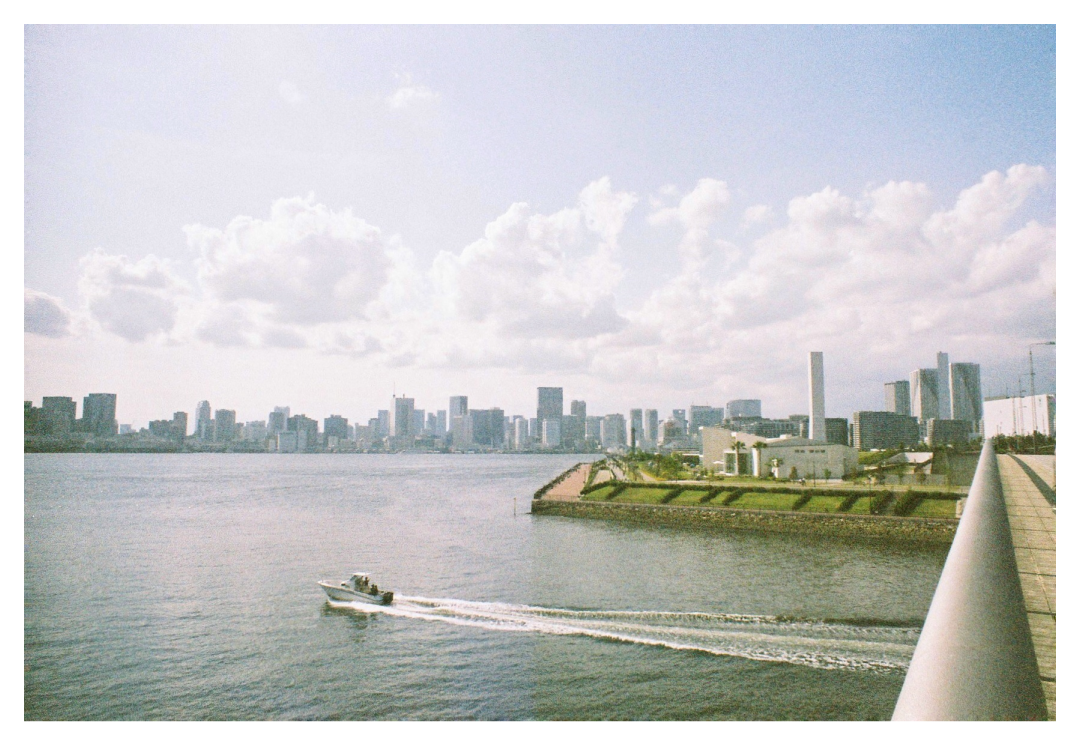
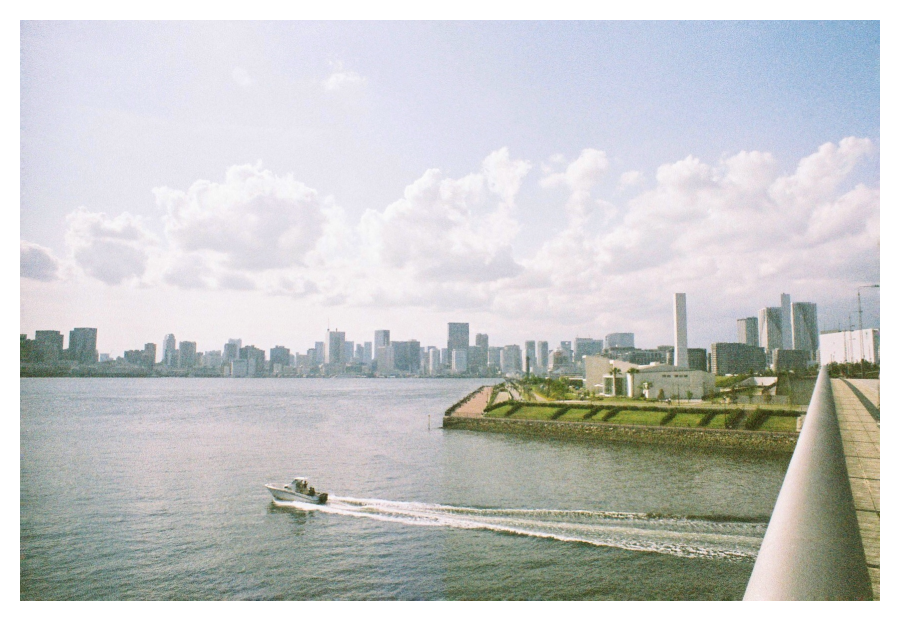
optimaze images

diff --git a/index.html b/index.html
@@ -29,12 +29,12 @@
 
       <!-- photo1 -->
       <a class="photo photo--1 js-modal-open" data-target="modal1">
-        <img class="lazy" data-original="images/1.png" alt="">
+        <img class="" src="images/1.png" alt="">
       </a>
       <div id="modal1" class="modal js-modal">
         <a class="modal__bg js-modal-close"></a>
         <div class="modal__content">
-          <img class="lazy" data-original="images/modal/1.png" alt="">
+          <img src="images/modal/1.png" alt="">
           <h1>sometimes time flows slowly</h1>
           <a class="js-modal-close" href="">back</a>
         </div>
@@ -44,12 +44,12 @@
 
       <!-- photo2 -->
       <a class="photo photo--2 js-modal-open" data-target="modal2">
-        <img class="lazy" data-original="images/2.png" alt="">
+        <img class="" src="images/2.png" alt="">
       </a>
       <div id="modal2" class="modal js-modal">
         <a class="modal__bg js-modal-close"></a>
         <div class="modal__content">
-          <img class="lazy" data-original="images/modal/2.png" alt="">
+          <img src="images/modal/2.png" alt="">
           <h1>unconsciously we share experiences</h1>
           <a class="js-modal-close" href="">back</a>
         </div>
@@ -59,12 +59,12 @@
 
       <!-- photo3 -->
       <a class="photo photo--3 js-modal-open" data-target="modal3">
-        <img class="lazy" data-original="images/3.png" alt="">
+        <img class="" src="images/3.png" alt="">
       </a>
       <div id="modal3" class="modal js-modal">
         <a class="modal__bg js-modal-close"></a>
         <div class="modal__content">
-          <img class="lazy" data-original="images/modal/3.png" alt="">
+          <img src="images/modal/3.png" alt="">
           <h1>god is chill</h1>
           <a class="js-modal-close" href="">back</a>
         </div>
@@ -74,12 +74,12 @@
 
       <!-- photo4 -->
       <a class="photo photo--4 js-modal-open" data-target="modal4">
-        <img class="lazy" data-original="images/4.png" alt="">
+        <img class="" src="images/4.png" alt="">
       </a>
       <div id="modal4" class="modal js-modal">
         <a class="modal__bg js-modal-close"></a>
         <div class="modal__content">
-          <img class="lazy" data-original="images/modal/4.png" alt="">
+          <img src="images/modal/4.png" alt="">
           <h1>not too warm yet not too cold</h1>
           <a class="js-modal-close" href="">back</a>
         </div>
@@ -89,12 +89,12 @@
 
       <!-- photo5 -->
       <a class="photo photo--5 js-modal-open" data-target="modal5">
-        <img class="lazy" data-original="images/5.png" alt="">
+        <img class="" src="images/5.png" alt="">
       </a>
       <div id="modal5" class="modal js-modal">
         <a class="modal__bg js-modal-close"></a>
         <div class="modal__content">
-          <img class="lazy" data-original="images/modal/5.png" alt="">
+          <img src="images/modal/5.png" alt="">
           <h1>which blue comes first?</h1>
           <a class="js-modal-close" href="">back</a>
         </div>
@@ -104,12 +104,12 @@
 
       <!-- photo6 -->
       <a class="photo photo--6 js-modal-open" data-target="modal6">
-        <img class="lazy" data-original="images/6.png" alt="">
+        <img class="" src="images/6.png" alt="">
       </a>
       <div id="modal6" class="modal js-modal">
         <a class="modal__bg js-modal-close"></a>
         <div class="modal__content">
-          <img class="lazy" data-original="images/modal/6.png" alt="">
+          <img src="images/modal/6.png" alt="">
           <h1> both functionality and beauty.</h1>
           <a class="js-modal-close" href="">back</a>
         </div>
@@ -119,12 +119,12 @@
 
       <!-- photo7 -->
       <a class="photo photo--7 js-modal-open" data-target="modal7">
-        <img class="lazy" data-original="images/7.png" alt="">
+        <img class="" src="images/7.png" alt="">
       </a>
       <div id="modal7" class="modal js-modal">
         <a class="modal__bg js-modal-close"></a>
         <div class="modal__content">
-          <img class="lazy" data-original="images/modal/7.png" alt="">
+          <img src="images/modal/7.png" alt="">
           <h1>always remember the buddy system</h1>
           <a class="js-modal-close" href="">back</a>
         </div>
@@ -134,12 +134,12 @@
 
       <!-- photo8 -->
       <a class="photo photo--8 js-modal-open" data-target="modal8">
-        <img class="lazy" data-original="images/8.png" alt="">
+        <img class="" src="images/8.png" alt="">
       </a>
       <div id="modal8" class="modal js-modal">
         <a class="modal__bg js-modal-close"></a>
         <div class="modal__content">
-          <img class="lazy" data-original="images/modal/8.png" alt="">
+          <img src="images/modal/8.png" alt="">
           <h1>quality of life is different for everyone</h1>
           <a class="js-modal-close" href="">back</a>
         </div>
@@ -149,12 +149,12 @@
 
       <!-- photo9 -->
       <a class="photo photo--9 js-modal-open" data-target="modal9">
-        <img class="lazy" data-original="images/9.png" alt="">
+        <img class="" src="images/9.png" alt="">
       </a>
       <div id="modal9" class="modal js-modal">
         <a class="modal__bg js-modal-close"></a>
         <div class="modal__content">
-          <img class="lazy" data-original="images/modal/9.png" alt="">
+          <img src="images/modal/9.png" alt="">
           <h1>floating in the city</h1>
           <a class="js-modal-close" href="">back</a>
         </div>
@@ -191,6 +191,5 @@
     <!-- jQuery -->
     <script src="https://ajax.aspnetcdn.com/ajax/jQuery/jquery-3.3.1.min.js"></script>
     <script src="./js/script.js"></script>
-    <script src="js/jquery.lazyload.min.js"></script>
   </body>
 </html>
